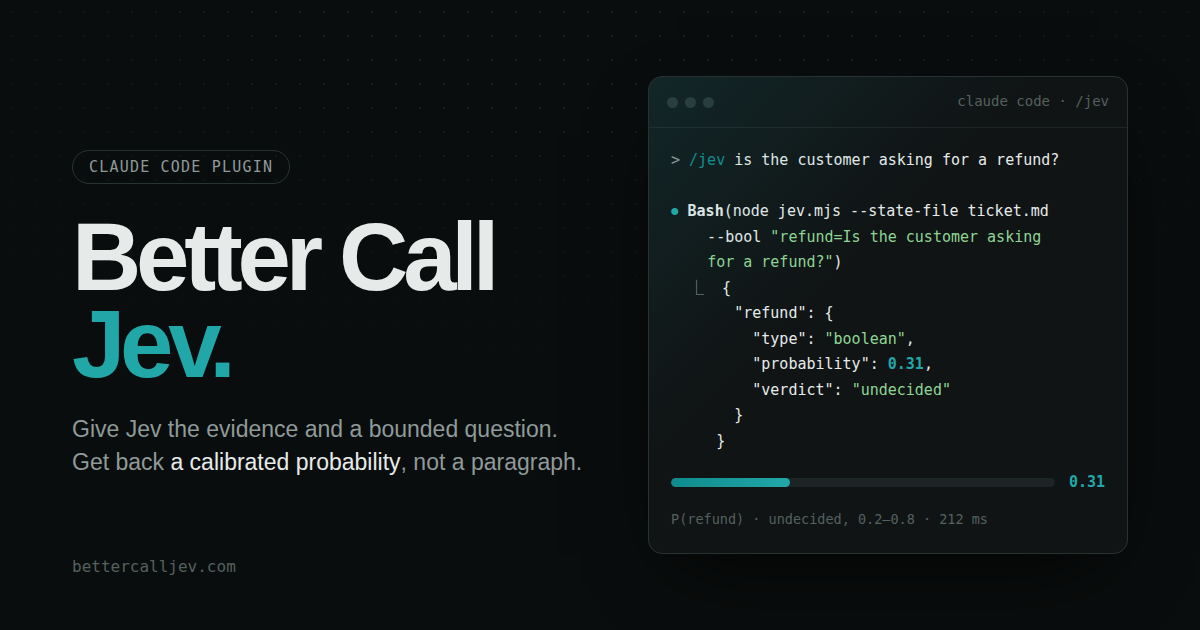
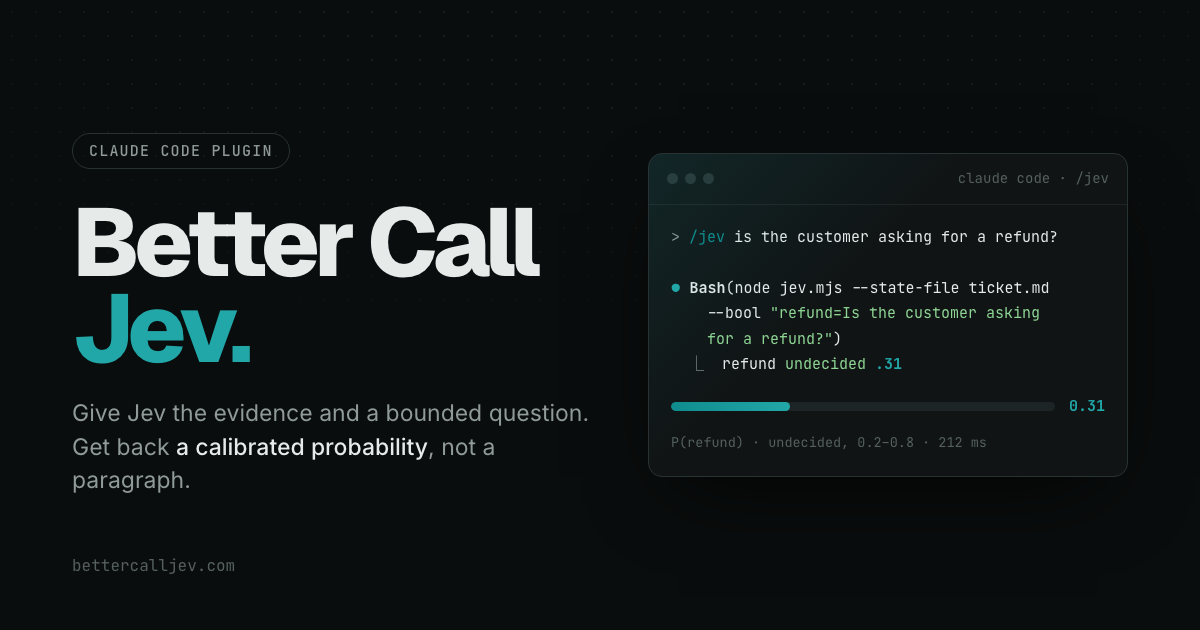
Pitch the compact format on the site, regenerate the social card (#5)
## Summary

- **Install note.** Replaces the outdated line saying Claude calls Jev
on its own with one on the compact format (short lines, about a fifth of
the tokens the same answers take as JSON) and `/jev-stats`.
- **No version history in copy.** "JSON still works" becomes "JSON works
too" in the FAQ and `llms.txt`.
- **Social card.** `og.png` re-rendered from `tools/og.html`, so it
shows `refund undecided .31` instead of a JSON block. Rendered with
headless Chrome (Playwright isn't installed), which picked up the
template's webfonts; the lede now wraps "paragraph." onto a third line.

What goes on the page was decided by asking Jev to score each feature's
marketing value: the compact format scored highest, and belongs next to
the `/jev` examples rather than in the hero.

## Test plan

- [x] `node tools/llms-full.mjs --check`
- [ ] Look over the page locally (served, returns 200, not reviewed
visually)
- [ ] Check the social card preview after deploy

🤖 Generated with [Claude Code](https://claude.com/claude-code)

---------

diff --git a/site/index.html b/site/index.html
@@ -641,7 +641,8 @@ overreaches no .07</span>
 <span class="p">/jev</span> rate the risk of shipping this: cosmetic, low, moderate, high
 <span class="c">risk 2/3 .58 c=.49 e=1.82 | 1:.3 3:.12</span></pre>
       </div>
-      <p class="note">Claude gathers the evidence, writes the typed questions, calls Jev, and acts on the number. With the plugin installed it also does this on its own whenever it has to judge something.</p>
+      <p class="note">Claude gathers the evidence, writes the typed questions, calls Jev, and acts on the number.</p>
+      <p class="note"><b>One line in, one line out.</b> Questions and answers travel as short lines, so Claude reads about a fifth of the tokens the same answers take as JSON, and a <code>/jev</code> turn is over almost as soon as it starts. <code>/jev-stats</code> shows which of your questions came back undecided and how to tighten them.</p>
       <p class="note">Full reference, per-domain recipes, the raw CLI and module API: <a href="https://github.com/jukkatupamaki/better-call-jev/blob/main/skills/jev/SKILL.md">the skill file</a>. For machines: <a href="/llms.txt">/llms.txt</a>.</p>
     </div>
   </div>
@@ -658,7 +659,7 @@ overreaches no .07</span>
     <details><summary>What does the plugin change about Claude Code?</summary><p>It adds the Jev skill. Claude uses it when you ask: "ask jev whether this is safe", "use bcj for this task", or <code>/jev</code>. Put the request in your CLAUDE.md to make it the default. Nothing is routed through Jev automatically.</p></details>
     <details><summary>What do I need to run it?</summary><p>Node 18 and a Vercel AI Gateway key in <code>JEV_API_KEY</code>.</p></details>
     <details><summary>Can I change the 0.8 / 0.2 cut-offs?</summary><p>Yes. They are defaults. Set <code>JEV_THRESHOLD_HIGH</code> and <code>JEV_THRESHOLD_LOW</code> next to the API key, or pass <code>--thresholds 0.9,0.1</code> on one call. Every boolean answer then reports <code>yes</code>, <code>no</code>, or <code>undecided</code> against your numbers.</p></details>
-    <details><summary>Why are the answers not JSON?</summary><p>Tokens. The CLI reads and prints a compact line format: <code>@field</code> lines for evidence, <code>?key bool</code> / <code>choice</code> / <code>score</code> lines for questions, and one answer line each, such as <code>safe yes .93</code> or <code>risk 2/3 .58 c=.49 e=1.82 | 1:.3 3:.12</code>. It carries the same numbers as JSON at a fraction of the tokens. JSON still works in and out, with <code>--json</code>.</p></details>
+    <details><summary>Why are the answers not JSON?</summary><p>Tokens. The CLI reads and prints a compact line format: <code>@field</code> lines for evidence, <code>?key bool</code> / <code>choice</code> / <code>score</code> lines for questions, and one answer line each, such as <code>safe yes .93</code> or <code>risk 2/3 .58 c=.49 e=1.82 | 1:.3 3:.12</code>. It carries the same numbers as JSON at a fraction of the tokens. JSON works too, in and out, with <code>--json</code>.</p></details>
     <details><summary>How big can the evidence be?</summary><p>Roughly 32k tokens of state. Trim to the relevant part. Jev cannot fetch, read, or run anything; if it is not in state, it is not considered.</p></details>
     <details><summary>What data leaves my machine?</summary><p>Everything in a Jev request: the evidence and the questions go to Vercel AI Gateway and TypeSafe AI, who may keep it. The agent is told never to send secrets, credentials, personal or customer data, or anything you called confidential, and to mask or skip instead. The client also refuses to send anything that looks like a key, token, password or card number. <code>--no-retain</code> is best effort, not a guarantee. The call log stays local.</p></details>
     <details><summary>Is it free and open source?</summary><p>Yes. MIT licensed on GitHub. This client is unaffiliated with TypeSafe AI.</p></details>
